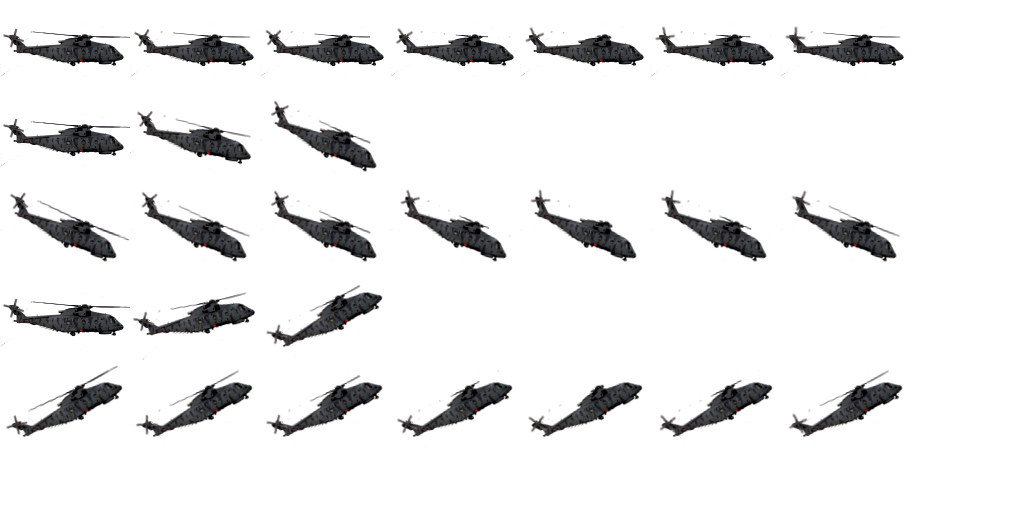
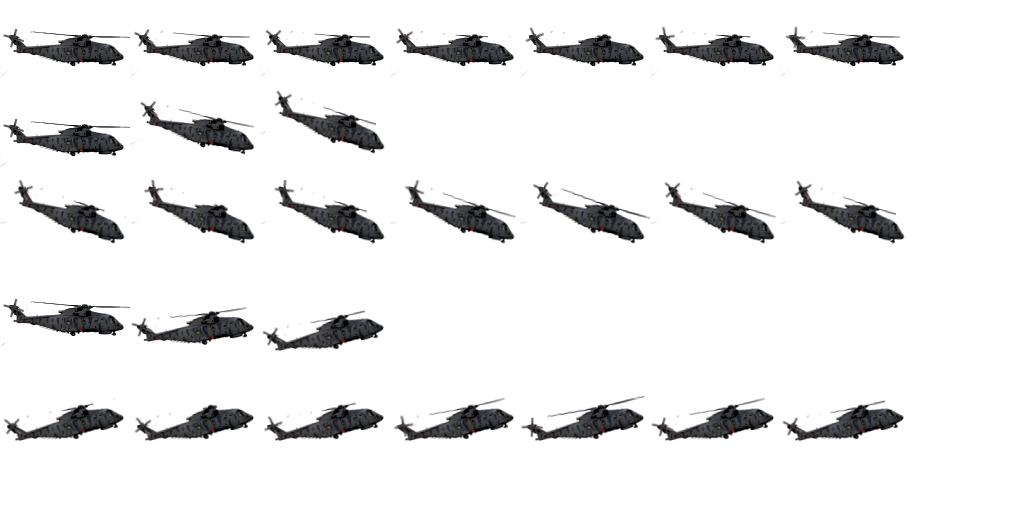
Poprawiona grafika helikoptera

diff --git a/src/spriteScriptParser.py b/src/spriteScriptParser.py
@@ -86,7 +86,7 @@ class SpriteScriptParser(object):
                     animationName = self.__match_line(reKey, matchResult, animationName)
 
             if not lineMatches:
-                print 'ERROR: niepoprawna linia %d w pliku %s' % (i,self.filename)
+                print 'ERROR: niepoprawna linia %d w pliku %s' % (i,self.__filename)
                 return False
             
         self.__spriteLoaded = True
